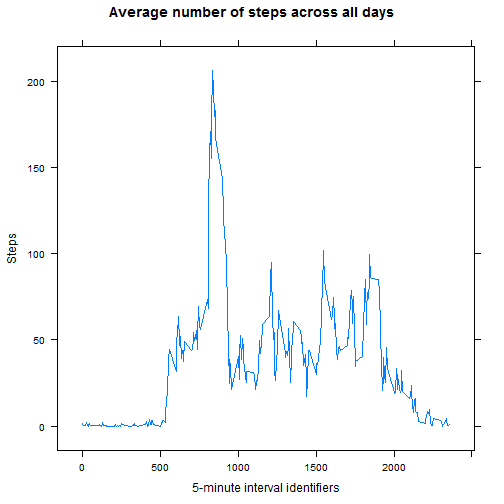
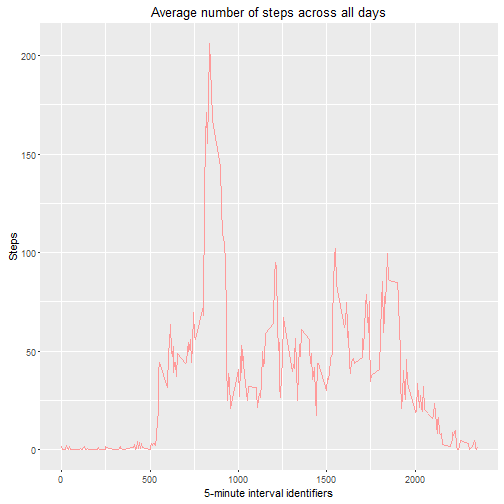
using ggplot2

diff --git a/PA1_template.html b/PA1_template.html
@@ -207,8 +207,7 @@ hr {
 <li>Loading the dataset into R</li>
 </ul>
 
-<pre><code class="r">library(plyr)
-library(lattice)
+<pre><code class="r">library(ggplot2)
 
 if(!file.exists(&quot;activity.zip&quot;)) {
     url &lt;- &quot;https://d396qusza40orc.cloudfront.net/repdata%2Fdata%2Factivity.zip&quot;
@@ -225,11 +224,12 @@ data &lt;- read.csv(unz(&quot;activity.zip&quot;, &quot;activity.csv&quot;),
 </ul>
 
 <pre><code class="r">steps &lt;- aggregate(steps~date, data, sum)
-histogram(steps$steps, xlab = &quot;Steps&quot;, breaks = 10, 
-          main = &quot;The total number of steps taken per day&quot;)
+ggplot(steps, aes(steps)) + 
+  geom_histogram(bins = 10, color = &quot;white&quot;, fill = &quot;#FF9999&quot;, alpha = 0.8) + 
+  labs(title = &quot;The total number of steps taken per day&quot;, x = &quot;Steps&quot;)
 </code></pre>
 
[2 lines of base64/hex data omitted]
 
 <pre><code class="r">mean.steps &lt;- mean(steps$steps)
 median.steps &lt;- median(steps$steps)
@@ -244,12 +244,12 @@ options(scipen=999)
 <h2>What is the average daily activity pattern?</h2>
 
 <pre><code class="r">avg.steps &lt;- aggregate(steps~interval, data, mean)
-xyplot(steps ~ interval, data = avg.steps, type = &quot;l&quot;, 
-       xlab = &quot;5-minute interval identifiers&quot;, ylab = &quot;Steps&quot;, 
-       main = &quot;Average number of steps across all days&quot;)
+ggplot(avg.steps, aes(interval, steps)) + 
+  geom_line(color = &quot;#FF9999&quot;) +
+  labs(title = &quot;Average number of steps across all days&quot;, x = &quot;5-minute interval identifiers&quot;, y = &quot;Steps&quot;)
 </code></pre>
 
[2 lines of base64/hex data omitted]
 
 <pre><code class="r">max.interval &lt;- avg.steps$interval[which.max(avg.steps$steps)]
 </code></pre>
@@ -277,11 +277,12 @@ data2 &lt;- data
 data2[na.index, &#39;steps&#39;] &lt;- fill.steps
 steps2 &lt;- aggregate(steps~date, data2, sum)
 
-histogram(steps2$steps, xlab = &quot;Steps&quot;, breaks = 10, 
-          main = &quot;The total number of steps taken per day \n (new dataset filled missing data)&quot;)
+ggplot(steps2, aes(steps)) + 
+  geom_histogram(bins = 10, color = &quot;white&quot;, fill = &quot;#FF9999&quot;, alpha = 0.8) + 
+  labs(title = &quot;The total number of steps taken per day \n (new dataset filled missing data)&quot;, x = &quot;Steps&quot;)
 </code></pre>
 
[2 lines of base64/hex data omitted]
 
 <pre><code class="r">mean2.steps &lt;- mean(steps2$steps)
 median2.steps &lt;- median(steps2$steps)
@@ -302,11 +303,14 @@ But, the median number of steps taken per day are slightly different (before fil
 <pre><code class="r">data2[&#39;day&#39;] = factor(ifelse(as.POSIXlt(data2$date)$wday %in% c(0,6), &quot;weekend&quot;, &quot;weekday&quot;))
 
 avg2.steps &lt;- aggregate(steps~interval + day, data2, mean)
-xyplot(steps ~ interval | day, data = avg2.steps, type=&#39;l&#39;, layout = c(1, 2), 
-       xlab = &quot;Interval&quot;, ylab = &quot;Number of steps&quot;, main = &quot;Average steps by day&quot;)
+
+ggplot(avg2.steps, aes(interval, steps)) + 
+  geom_line(color = &quot;#FF9999&quot;) +
+  labs(title = &quot;Average steps by day&quot;, x = &quot;5-minute interval identifiers&quot;, y = &quot;Steps&quot;) +
+  facet_grid(day ~ .)
 </code></pre>
 
[2 lines of base64/hex data omitted]
 
 </body>
 

diff --git a/PA1_template.md b/PA1_template.md
@@ -11,8 +11,7 @@ output:
 - Loading the dataset into R
 
 ```r
-library(plyr)
-library(lattice)
+library(ggplot2)
 
 if(!file.exists("activity.zip")) {
     url <- "https://d396qusza40orc.cloudfront.net/repdata%2Fdata%2Factivity.zip"
@@ -29,8 +28,9 @@ data <- read.csv(unz("activity.zip", "activity.csv"),
 
 ```r
 steps <- aggregate(steps~date, data, sum)
-histogram(steps$steps, xlab = "Steps", breaks = 10, 
-          main = "The total number of steps taken per day")
+ggplot(steps, aes(steps)) + 
+  geom_histogram(bins = 10, color = "white", fill = "#FF9999", alpha = 0.8) + 
+  labs(title = "The total number of steps taken per day", x = "Steps")
 ```
 
 ![plot of chunk unnamed-chunk-2](figure/unnamed-chunk-2-1.png) 
@@ -50,9 +50,9 @@ options(scipen=999)
 
 ```r
 avg.steps <- aggregate(steps~interval, data, mean)
-xyplot(steps ~ interval, data = avg.steps, type = "l", 
-       xlab = "5-minute interval identifiers", ylab = "Steps", 
-       main = "Average number of steps across all days")
+ggplot(avg.steps, aes(interval, steps)) + 
+  geom_line(color = "#FF9999") +
+  labs(title = "Average number of steps across all days", x = "5-minute interval identifiers", y = "Steps")
 ```
 
 ![plot of chunk unnamed-chunk-4](figure/unnamed-chunk-4-1.png) 
@@ -84,8 +84,9 @@ data2 <- data
 data2[na.index, 'steps'] <- fill.steps
 steps2 <- aggregate(steps~date, data2, sum)
 
-histogram(steps2$steps, xlab = "Steps", breaks = 10, 
-          main = "The total number of steps taken per day \n (new dataset filled missing data)")
+ggplot(steps2, aes(steps)) + 
+  geom_histogram(bins = 10, color = "white", fill = "#FF9999", alpha = 0.8) + 
+  labs(title = "The total number of steps taken per day \n (new dataset filled missing data)", x = "Steps")
 ```
 
 ![plot of chunk unnamed-chunk-7](figure/unnamed-chunk-7-1.png) 
@@ -111,8 +112,11 @@ But, the median number of steps taken per day are slightly different (before fil
 data2['day'] = factor(ifelse(as.POSIXlt(data2$date)$wday %in% c(0,6), "weekend", "weekday"))
 
 avg2.steps <- aggregate(steps~interval + day, data2, mean)
-xyplot(steps ~ interval | day, data = avg2.steps, type='l', layout = c(1, 2), 
-       xlab = "Interval", ylab = "Number of steps", main = "Average steps by day")
+
+ggplot(avg2.steps, aes(interval, steps)) + 
+  geom_line(color = "#FF9999") +
+  labs(title = "Average steps by day", x = "5-minute interval identifiers", y = "Steps") +
+  facet_grid(day ~ .)
 ```
 
 ![plot of chunk unnamed-chunk-8](figure/unnamed-chunk-8-1.png) 
